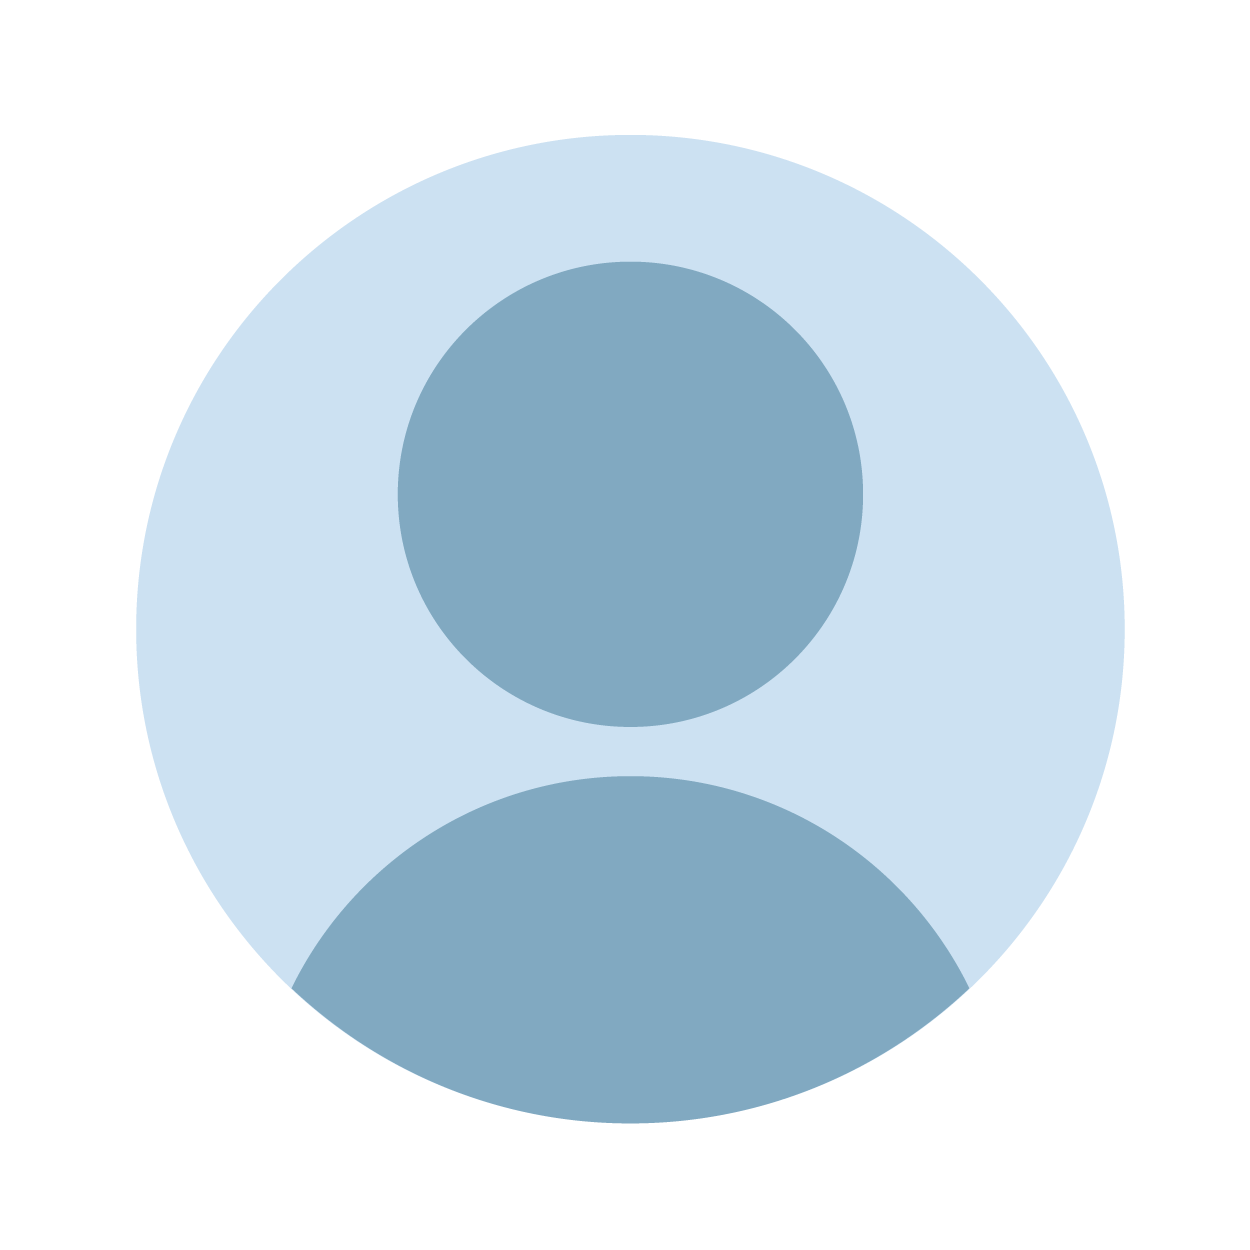
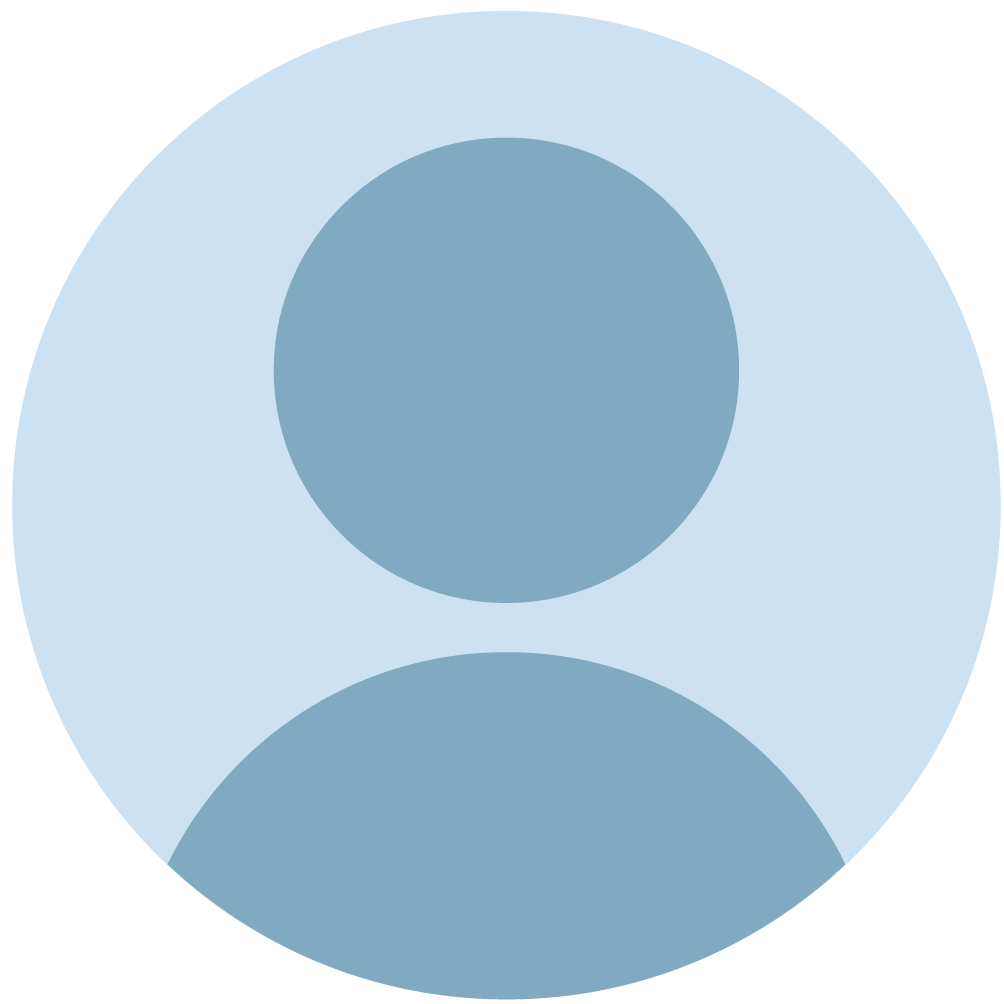
フロントの微調整など

diff --git a/app/assets/stylesheets/_cafeteria-index.scss b/app/assets/stylesheets/_cafeteria-index.scss
@@ -1,11 +1,7 @@
 $text: "ヒラギノ丸ゴ Pro W4","ヒラギノ丸ゴ Pro","Hiragino Maru Gothic Pro","ヒラギノ角ゴ Pro W3","Hiragino Kaku Gothic Pro","HG丸ｺﾞｼｯｸM-PRO","HGMaruGothicMPRO";
 
-.content-image {
-  .content-image__box {
-    border-radius: 8px;
-  }
-}
-.content-bottom {
+
+.card-content {
   .cafeteria-name a {
     font-family: $text;
     color: #432;
@@ -13,16 +9,17 @@ $text: "ヒラギノ丸ゴ Pro W4","ヒラギノ丸ゴ Pro","Hiragino Maru Gothi
   .cafeteria-name a:hover {
     color: #0bd;
   }
+  .media--userName {
+    margin-top: 12px;
+  }
+  .media--userName a {
+    color: #432;
+    font-family: $text;
+  }
+  .media--userName a:hover {
+    color: #0bd;
+  }
   .detail {
-    display: flex;
-    .detail--userName a {
-      color: #432;
-      margin-right: 15px;
-      font-family: $text;
-    }
-    .detail--userName a:hover {
-      color: #0bd;
-    }
     .detail--date {
       color: #432;
     }
@@ -40,3 +37,4 @@ $text: "ヒラギノ丸ゴ Pro W4","ヒラギノ丸ゴ Pro","Hiragino Maru Gothi
   border: 1px solid rgba(0,0,0,0.125);
   border-radius: 0.25rem;
 }
+

diff --git a/app/assets/stylesheets/_header.scss b/app/assets/stylesheets/_header.scss
@@ -56,8 +56,12 @@ $header-text: "ヒラギノ丸ゴ Pro W4","ヒラギノ丸ゴ Pro","Hiragino Mar
   height: 28px;
   position: relative;
 }
-.header-image {
-  margin-right: 5px;
-  width: 40px;
-  height: 40px;
+
+.current-username {
+  margin-left: 5px;
+}
+
+
+.profile-image {
+  border-radius: 50%;
 }

diff --git a/app/assets/stylesheets/application.scss b/app/assets/stylesheets/application.scss
@@ -26,6 +26,7 @@
 @import "flash-messages";
 @import "cafeterias-form";
 @import "cafeteria-index";
+@import "cafeteria-show";
 
 // .content_cafeteria {
 //   width: 20%;

diff --git a/app/assets/stylesheets/_cafeteria-show.scss b/app/assets/stylesheets/_cafeteria-show.scss
@@ -1,0 +1,7 @@
+.table.is-narrow th {
+  padding: 0.5em 0.5em;
+}
+
+.table.is-narrow td {
+  padding: 0.5em 0.5em;
+}

diff --git a/app/controllers/top_controller.rb b/app/controllers/top_controller.rb
@@ -1,2 +1,5 @@
 class TopController < ApplicationController
+  # def index
+  #   @user = User.all
+  # end
 end
